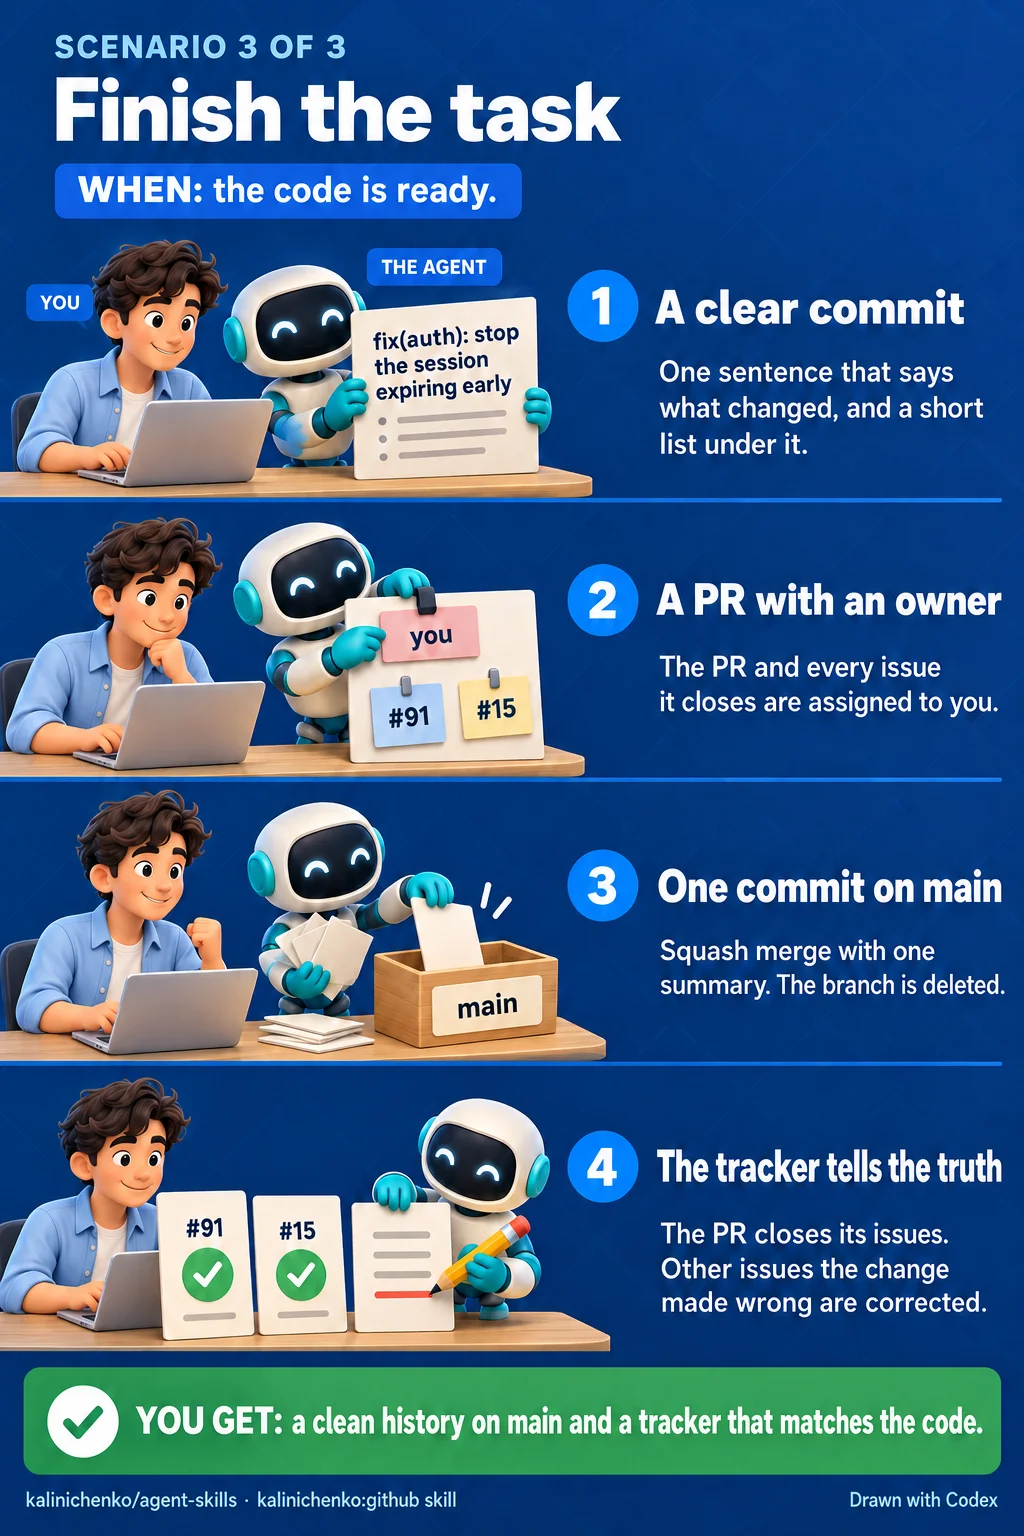
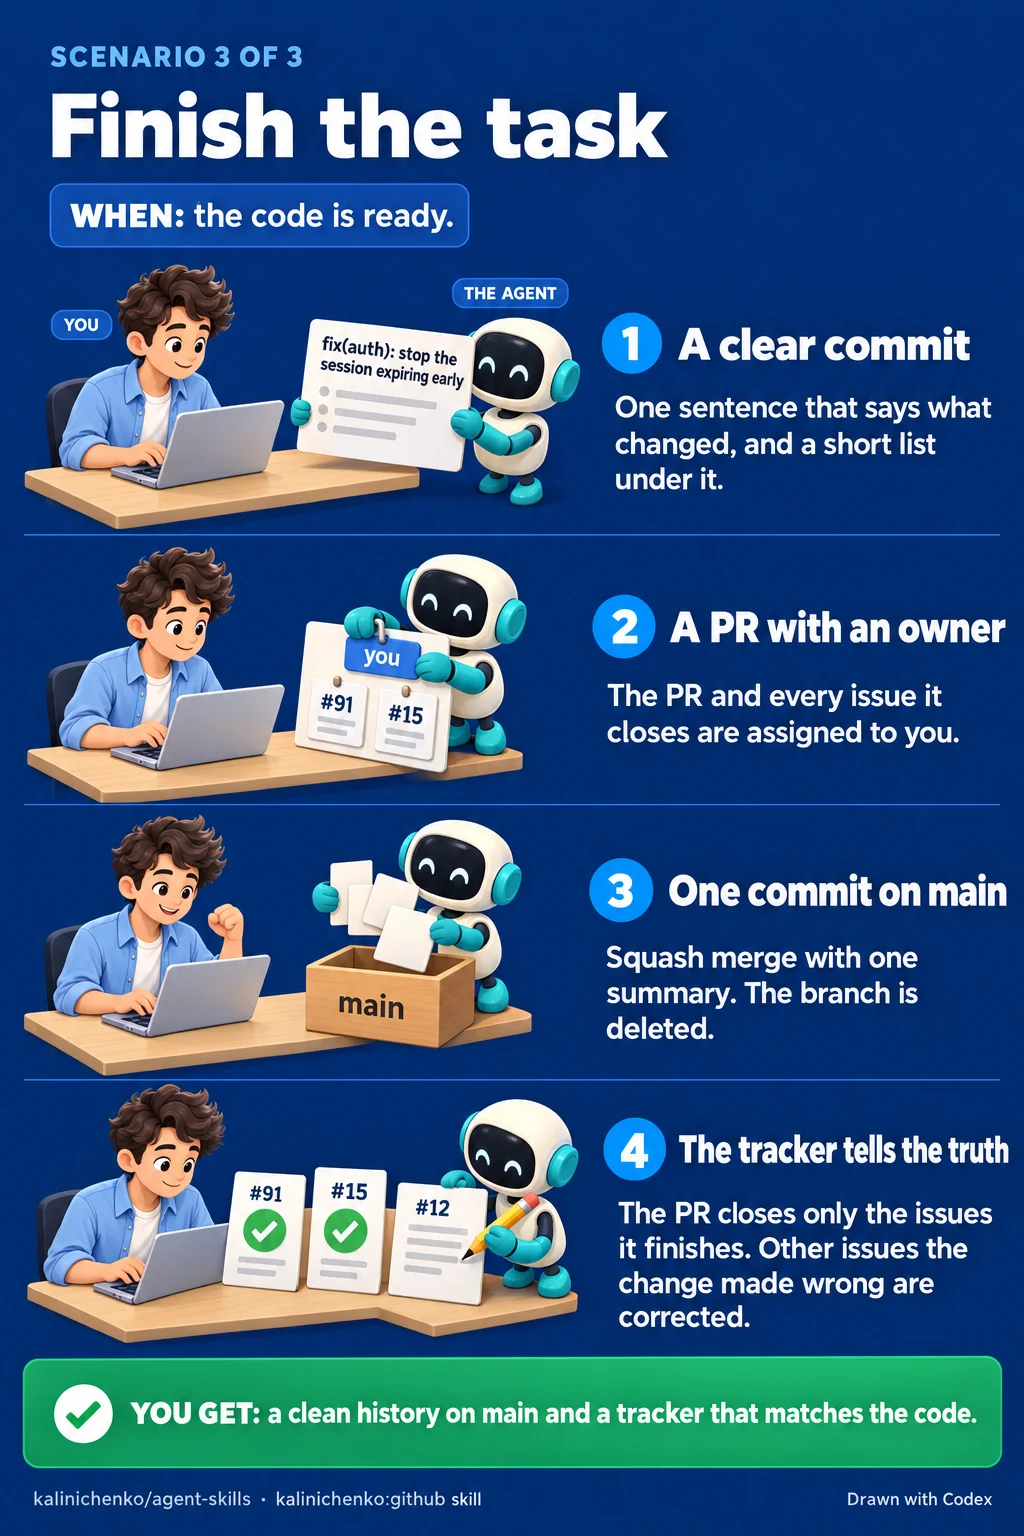
docs(github): show that a PR closes only the issues it finishes
- Change scene 4 of 03-finish in the brief: #12 stays open, and its text is corrected
- Draw 03-finish again from the brief with /infographic

diff --git a/docs/github/brief.md b/docs/github/brief.md
@@ -57,7 +57,7 @@ Trigger box: "WHEN: the code is ready."
 1. "A clear commit" — THE AGENT holds a card whose only text is "fix(auth): stop the session expiring early", with a few grey list lines under it. Caption: "One sentence that says what changed, and a short list under it."
 2. "A PR with an owner" — THE AGENT clips a name tag "you" onto a plain card, with tickets "#91" and "#15" attached. Caption: "The PR and every issue it closes are assigned to you."
 3. "One commit on main" — THE AGENT presses several blank small cards into one card that drops into a box labelled "main". Caption: "Squash merge with one summary. The branch is deleted."
-4. "The tracker tells the truth" — tickets "#91" and "#15" have green checks; THE AGENT corrects a third, blank ticket with a pencil. Caption: "The PR closes its issues. Other issues the change made wrong are corrected."
+4. "The tracker tells the truth" — tickets "#91" and "#15" have green checks; THE AGENT corrects a third ticket "#12", which has no check, with a pencil. Caption: "The PR closes only the issues it finishes. Other issues the change made wrong are corrected."
 Result box: "YOU GET: a clean history on main and a tracker that matches the code."
 </image>
 
